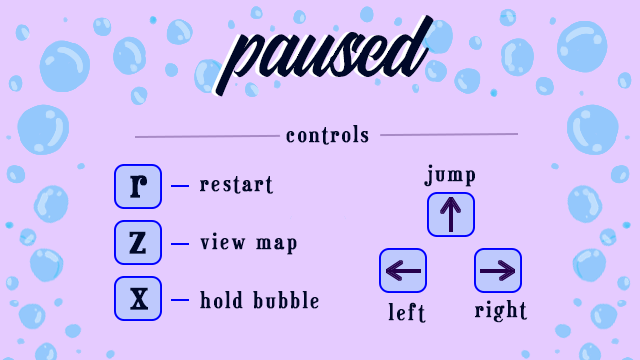
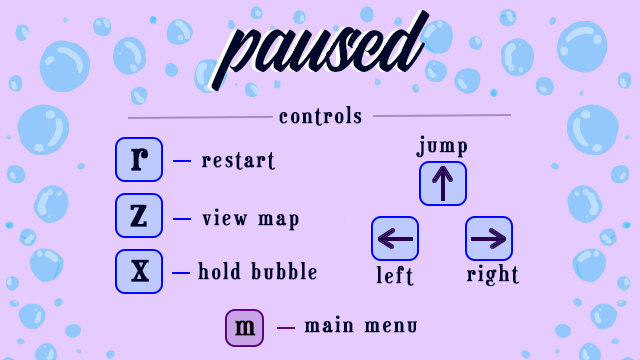
beta version 1.1
- new pause menu with the ability to return to the menu

Changed region(s): [[0.1562, 0.3056, 0.8438, 0.9778], [0.3125, 0.0306, 0.6875, 0.275], [0.3125, 0.4278, 0.4375, 0.55]]

diff --git a/src/scenes/Pause.js b/src/scenes/Pause.js
@@ -6,12 +6,22 @@ class Pause extends Phaser.Scene {
     create() {
         this.pauseImage = this.add.image(0, 0, "pauseImage").setOrigin(0);
 
+        this.pressed = false;
+
         this.unPause = this.input.keyboard.addKey(Phaser.Input.Keyboard.KeyCodes.P);
+        this.menu = this.input.keyboard.addKey(Phaser.Input.Keyboard.KeyCodes.M);
     }
 
     update() {
-        if(Phaser.Input.Keyboard.JustDown(this.unPause)) {
+        if(Phaser.Input.Keyboard.JustDown(this.unPause) && !this.pressed) {
             this.scene.resume(game.settings.currentLevel);
+            this.scene.stop("pause");
+        }
+
+        if(Phaser.Input.Keyboard.JustDown(this.menu) && !this.pressed) {
+            this.scene.stop(game.settings.currentLevel);
+            this.sound.stopAll();
+            this.scene.start("menu");
             this.scene.stop("pause");
         }
     }

diff --git a/src/scenes/Cutscene.js b/src/scenes/Cutscene.js
@@ -9,12 +9,13 @@ class Cutscene extends Phaser.Scene {
         this.cutscene2 = this.add.image(0, 0, "cutscene2").setOrigin(0).setAlpha(0);
         this.cutscene3 = this.add.image(0, 0, "cutscene3").setOrigin(0).setAlpha(0);
         this.cutscene4 = this.add.image(0, 0, "cutscene4").setOrigin(0).setAlpha(0);
+        this.arrow = this.add.image(0, 0, "arrow").setOrigin(0);
 
         this.cursors = this.input.keyboard.createCursorKeys();
         this.num = 0;
 
         this.time.addEvent({
-            delay: 3000,
+            delay: 3500,
             callback: this.changeCutscene,
             callbackScope: this,
             repeat: 4

diff --git a/src/scenes/EndCutscene.js b/src/scenes/EndCutscene.js
@@ -44,7 +44,7 @@ class EndCutscene extends Phaser.Scene {
                     this.end3.setAlpha(1);
                     break;
                 case 3:
-                    this.text.text = "How can you look at me with such confusion on your face when this is all your doing?";
+                    this.text.text = "How can you look at me with such confusion on your face, this couldn’t have been all my doing?";
                     this.text.y = 15;
                     this.end4.setAlpha(1);
                     break;
